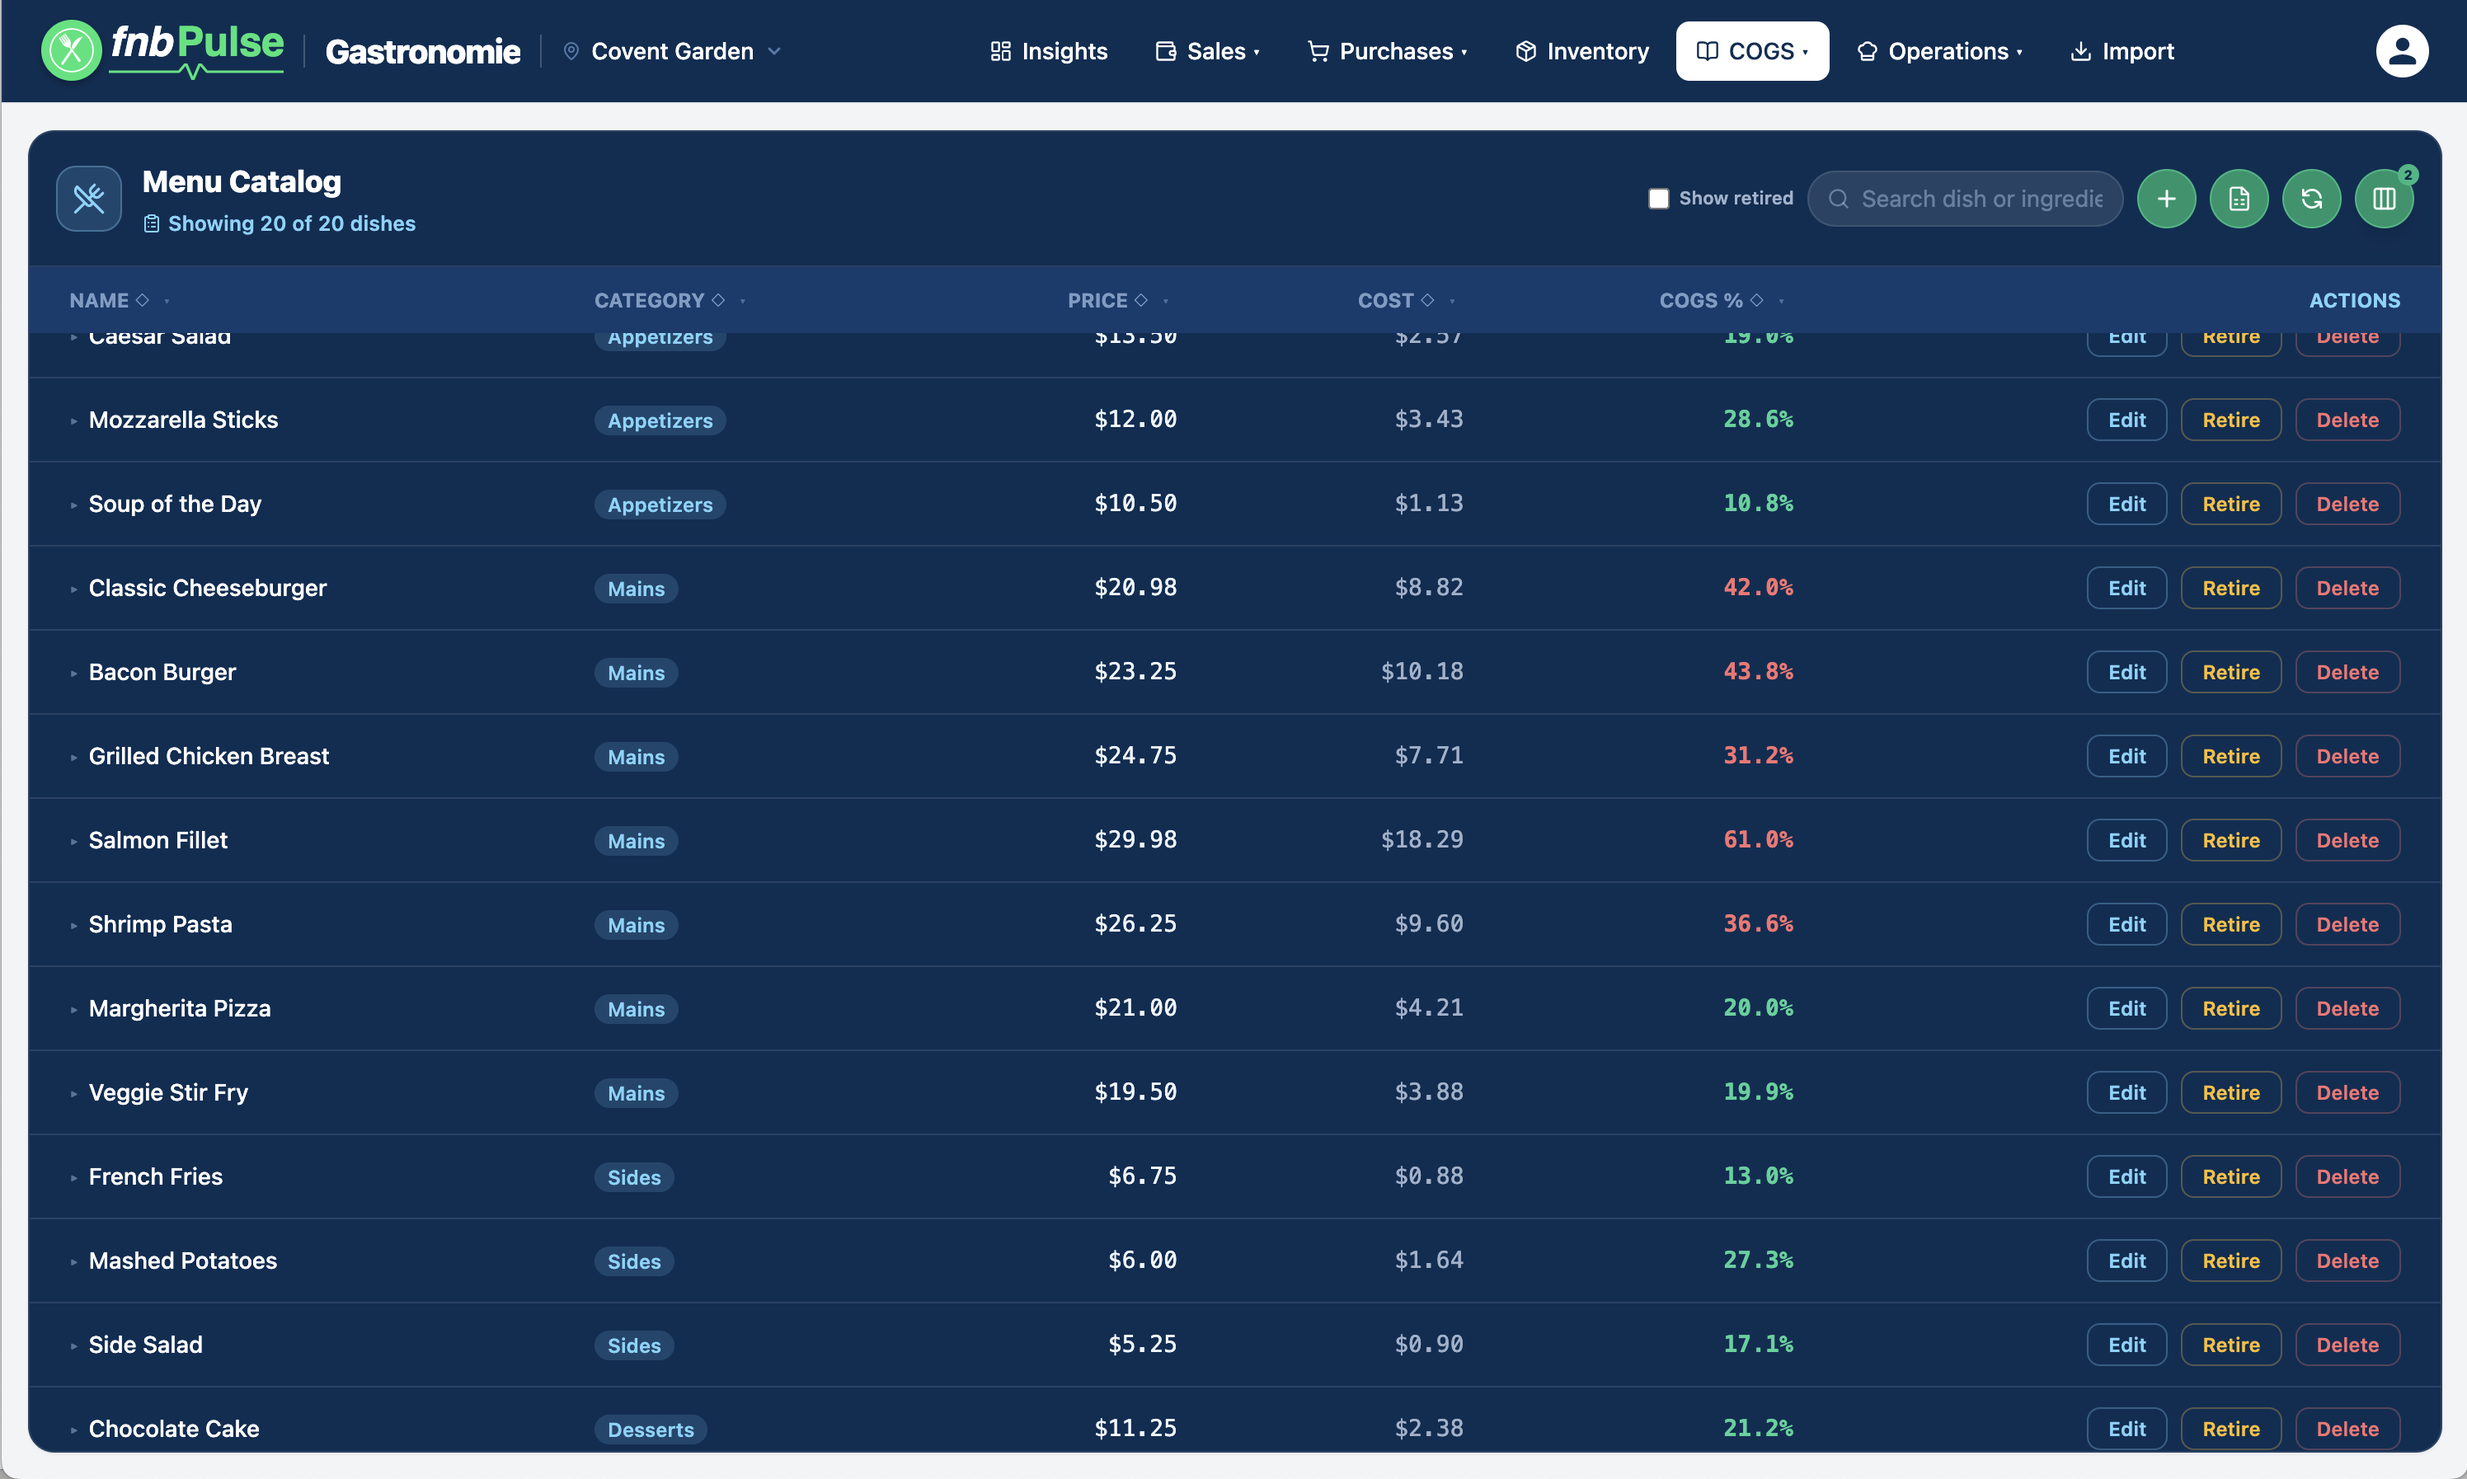
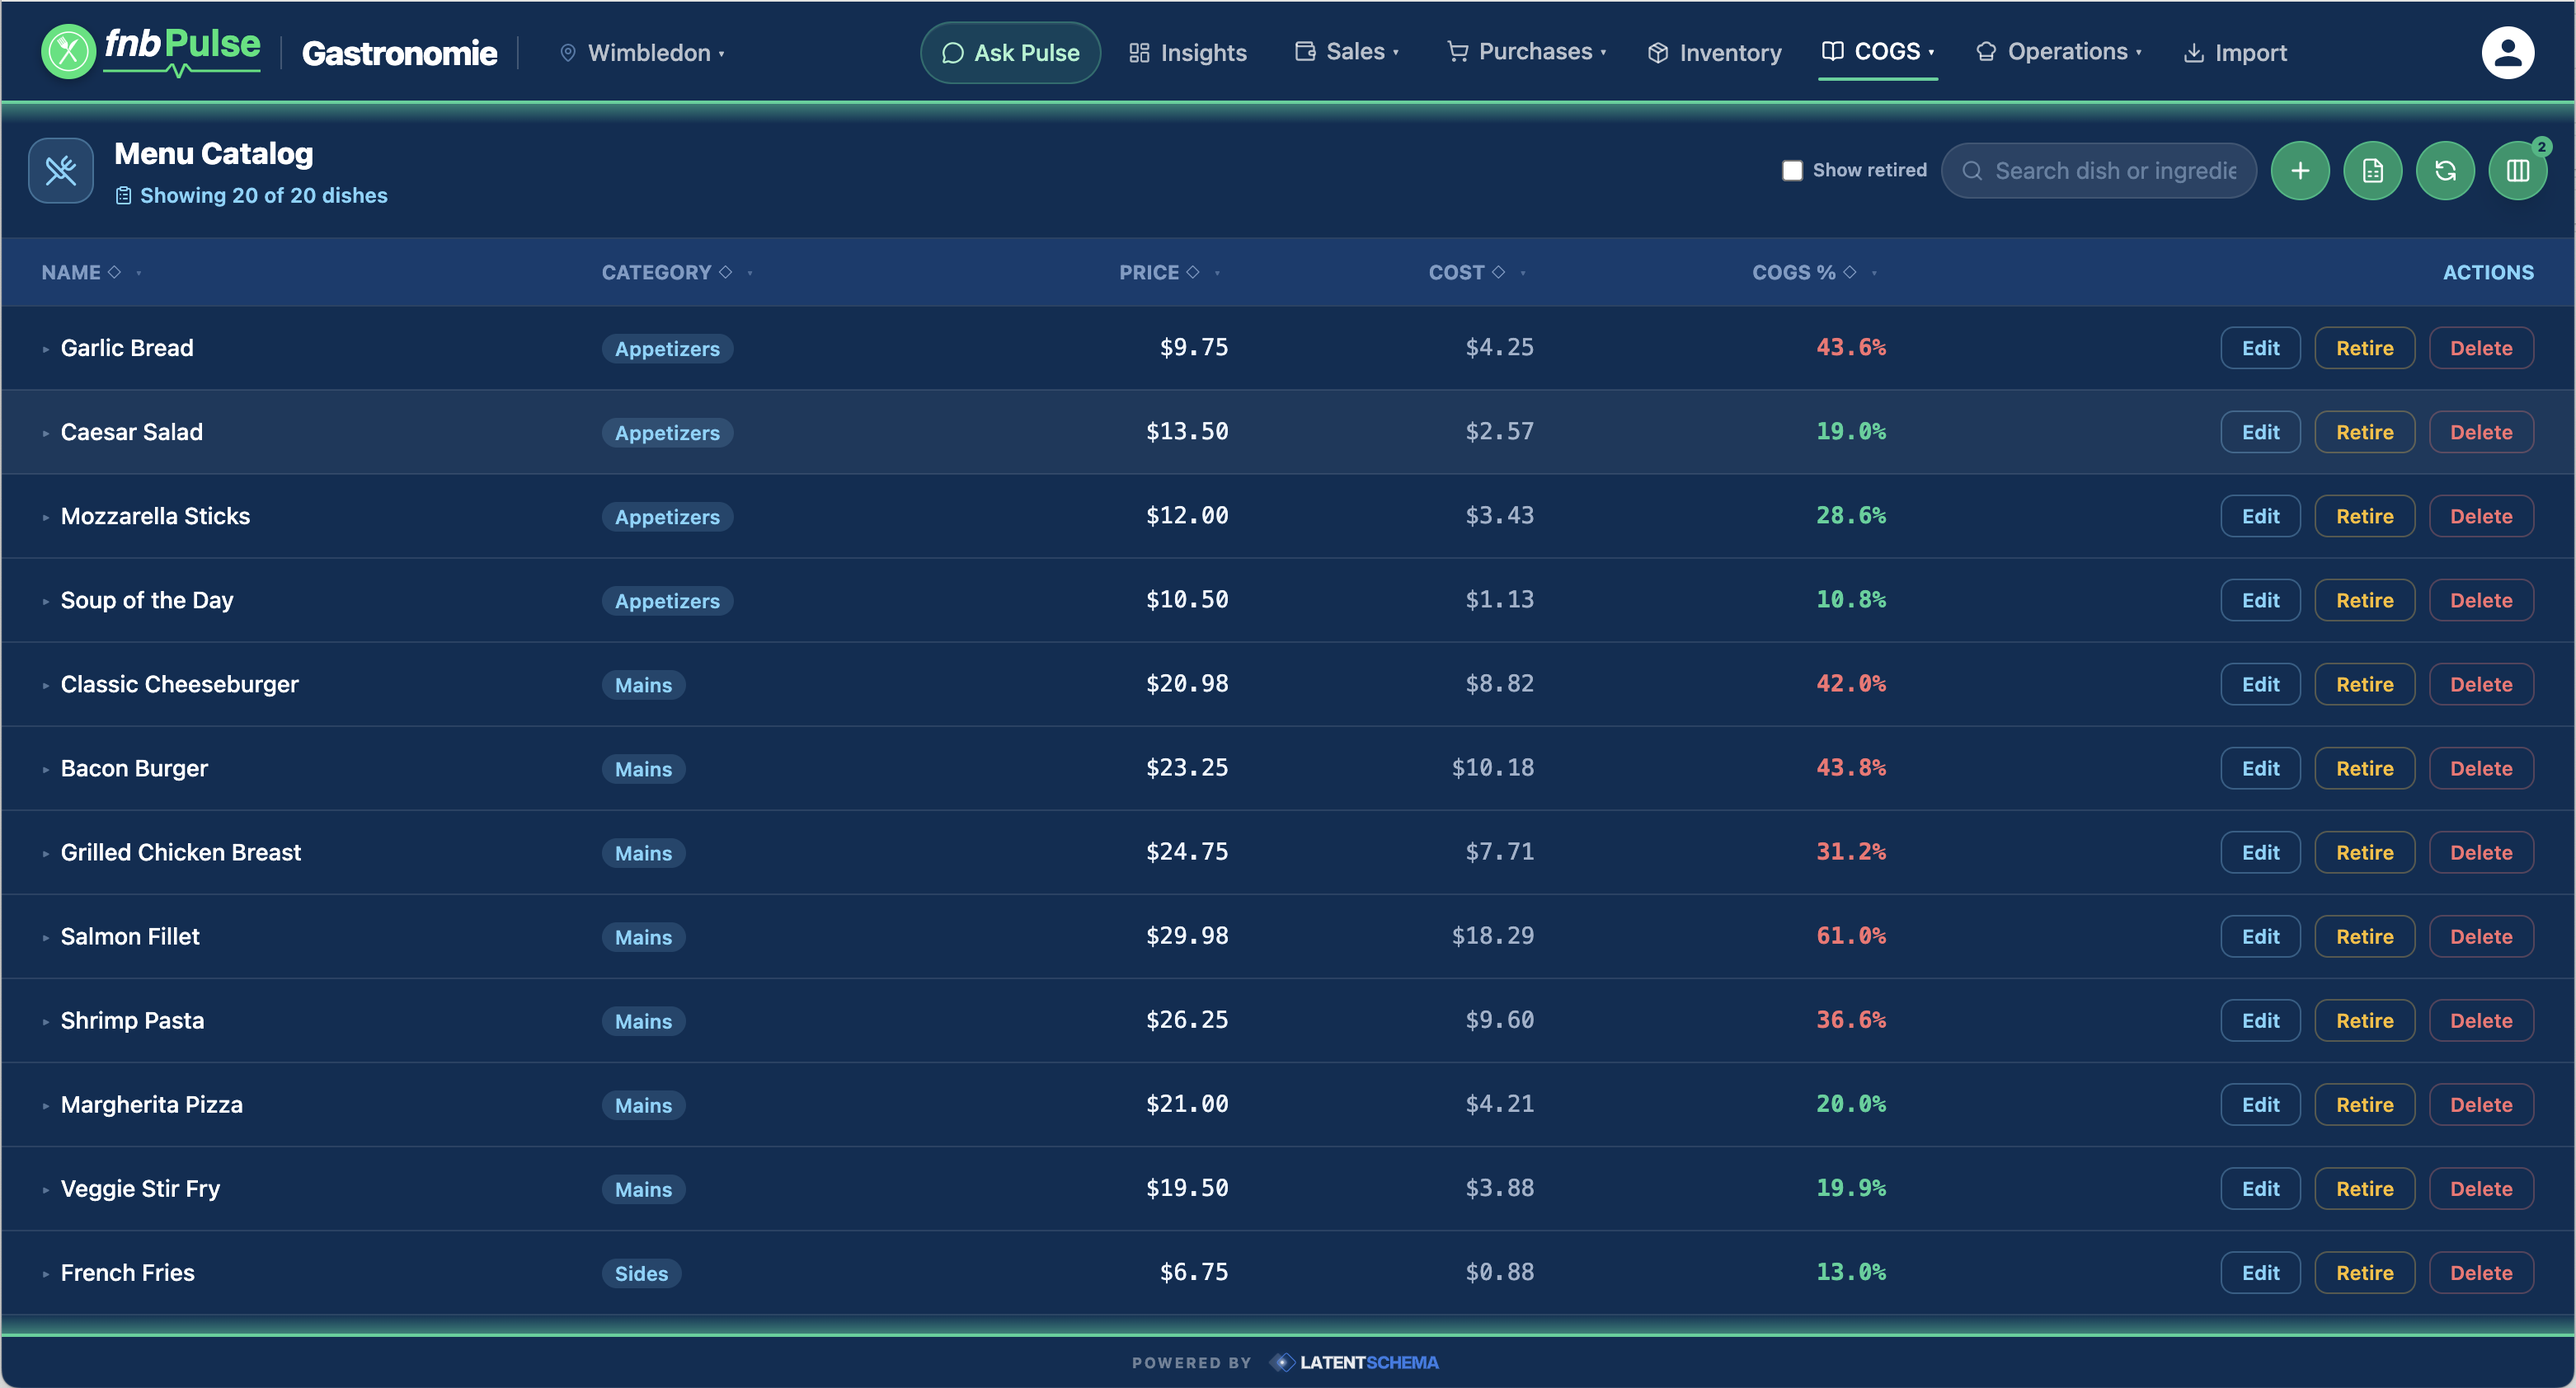
Add Ask Pulse screen as first gallery image, refresh screenshots
Ask Pulse is the conversational AI Q&A feature; adding it first
leads with the product's differentiated AI capability. Also redacts
BILL TO/SHIP TO on the refreshed invoice screenshot and picks up the
rest of the gallery's screenshots reflecting the current app UI
(Ask Pulse nav item now present everywhere).

diff --git a/src/components/sections/ProductWalkthrough.tsx b/src/components/sections/ProductWalkthrough.tsx
@@ -9,6 +9,13 @@ const FlipBook = HTMLFlipBook as unknown as React.ComponentType<Record<string, u
 
 const SCREENS = [
   {
+    src: '/images/product/0-fnbpulse-askpulse.png',
+    title: 'Ask Pulse',
+    description:
+      'A conversational AI assistant that answers plain-English questions about costs, sales, and margins with live charts and figures pulled straight from your data, not estimates.',
+    highlight: true,
+  },
+  {
     src: '/images/product/0-fnbpulse-score.png',
     title: 'Pulse Score',
     description:
